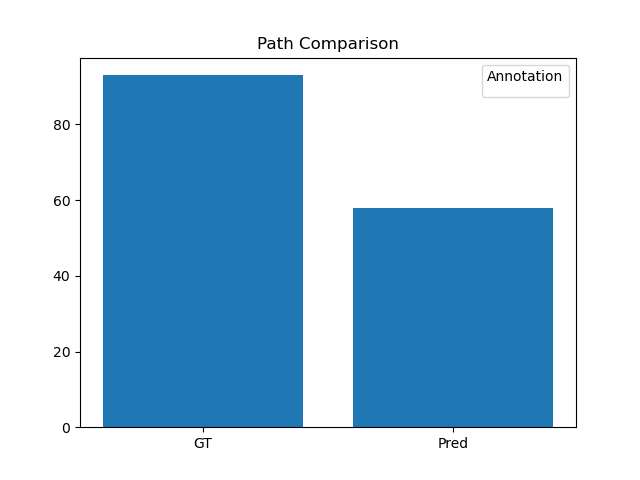
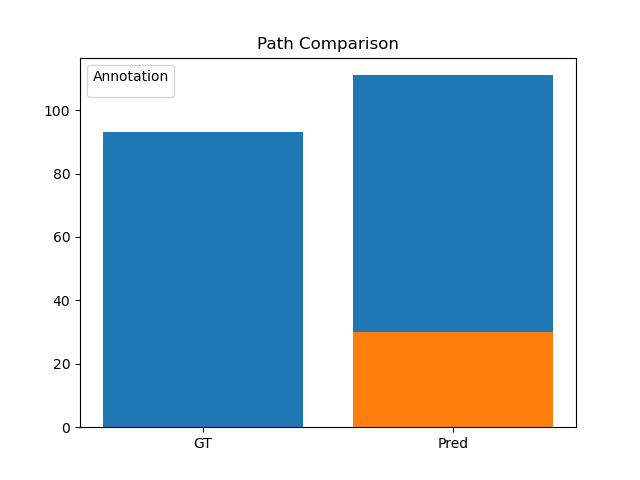
:)

diff --git a/src/main/OME_evaluator.py b/src/main/OME_evaluator.py
@@ -1,11 +1,13 @@
 import xml.etree.ElementTree as ET
-import javabridge
-import bioformats
+#import javabridge
+#import bioformats
 import numpy as np
 from zss import simple_distance, Node
 import seaborn as sns
 import matplotlib.pyplot as plt
 import pandas as pd
+
+
 # javabridge.start_vm(class_path=bioformats.JARS)
 
 
@@ -15,18 +17,20 @@ class OMEEvaluator:
     ground truth and the prediction. https://github.com/timtadh/zhang-shasha
     """
 
-    def __init__(self, path_to_raw_metadata=None,
-                 gt_path="/home/aaron/PycharmProjects/MetaGPT/raw_data/testetst_Image8_edited_.ome.xml",
-                 pred_path="/home/aaron/PycharmProjects/MetaGPT/raw_data/image8_start_point.ome.xml"):
+    def __init__(self,
+                 schema: str = None,
+                 ground_truth: str = None,
+                 predicted: list[str] = None,
+                 out_path: str = None):
         """
         :param path_to_raw_metadata: path to the raw metadata file
         """
-        self.gt_path = gt_path
-        self.pred_path = pred_path
-
-        self.prediction = self.read_ome_xml(pred_path)
-        self.ground_truth = self.read_ome_xml(gt_path)
-        self.edit_score = self.edit_distance(self.prediction, self.ground_truth)
+        self.prediction: list = predicted
+        self.ground_truth = ground_truth
+        self.out_path: str = out_path
+        self.edit_score = []
+        for p in self.prediction:
+            self.edit_score.append(self.edit_distance(p, self.ground_truth))
         self.report()
 
     def edit_distance(self, xml_a, xml_b):
@@ -41,7 +45,7 @@ class OMEEvaluator:
 
         self.pred_graph = self.get_graph(self.prediction)
         self.gt_graph = self.get_graph(self.ground_truth)
-        return simple_distance(self.pred_graph, self.gt_graph)
+        return simple_distance(self.gt_graph, self.pred_graph)
 
     def align_paths(self, paths_a, paths_b):
         """
@@ -206,9 +210,10 @@ class OMEEvaluator:
         """
         This method reads the ome tiff file.
         """
-        ome = bioformats.OMEXML()
-        print(ome)
-        return ome
+        pass
+        #ome = bioformats.OMEXML()
+        #print(ome)
+        #return ome
 
     def evaluate(self):
         """
@@ -217,6 +222,13 @@ class OMEEvaluator:
         print("Evaluation in progress...")
         self.score = self.path_difference(self.prediction, self.ground_truth)
 
+    def flatten(self, container):
+        for i in container:
+            if isinstance(i, (list, tuple, set)):
+                yield from self.flatten(i)
+            else:
+                yield i
+
     def report(self):
         """
         Write evaluation report to file.
@@ -224,43 +236,91 @@ class OMEEvaluator:
         with open(f"../../out/report_{self.gt_path.split('/')[-1]}.md", "w") as f:
             f.write("# Evaluation Report\n")
             f.write("## File content\n")
-            f.write(f"### File 1: {self.gt_path.split('/')[-1]}\n")
+            f.write(f"### File Ground Truth: \n")
             paths_gt = self.get_paths(self.ground_truth)
             f.write(f"Number of paths: {len(paths_gt)}\n")  # TODO: Somehow incorporate the ID
             f.write(f"Number of paths in structured annotations:"
                     f"{len([x for x in paths_gt if x.__contains__('StructuredAnnotations')])}\n")
-            f.write(f"### File 2: {self.pred_path.split('/')[-1]}\n")
-            paths_pred = self.get_paths(self.prediction)
-            f.write(f"Number of paths: {len(paths_pred)}\n")
-            f.write(f"Number of paths in structured annotations: "
-                    f"{len([x for x in paths_pred if x.__contains__('StructuredAnnotations')])}\n")
+            paths_pred = []
+            for j, p in enumerate(self.prediction):
+                f.write(f"### Prediction {j}\n")
+                paths_pred.append(self.get_paths(p))
+                f.write(f"Number of paths: {len(paths_pred[j])}\n")
+                f.write(f"Number of paths in structured annotations: "
+                        f"{len([x for x in paths_pred[j] if x.__contains__('StructuredAnnotations')])}\n")
             f.write("## Edit Distance\n")
-            f.write(f"Edit distance between Files: {self.edit_score}\n")
-            # create a pandas dataframe with all the paths
-            df_paths = pd.DataFrame(set(paths_gt.union(paths_pred)))
+            for j, p in enumerate(self.prediction):
+                f.write(f"Edit distance between gt and file {j}: {self.edit_score[j]}\n")
+            # create a pandas dataframe with all the paths and in which samples they occur
+            df_paths = pd.DataFrame(set(self.flatten(paths_pred + [paths_gt])))
             df_paths["GT"] = [1 if x in paths_gt else 0 for x in df_paths[0]]
-            df_paths["Pred"] = [1 if x in paths_pred else 0 for x in df_paths[0]]
-            df_paths["StructuredAnnotations"] = [1 if x.__contains__("StructuredAnnotations") else 0 for x in df_paths[0]]
+            for j, p in enumerate(self.prediction):
+                df_paths[f"Pred{j}"] = [1 if x in paths_pred[j] else 0 for x in df_paths[0]]
+                df_paths[f"StructuredAnnotations{j}"] = [1 if x.__contains__("StructuredAnnotations") else 0 for x in
+                                                         df_paths[0]]
 
             plt.bar([1, 2], [df_paths["GT"].sum(), df_paths["Pred"].sum()])
-            plt.bar([1, 2], [df_paths["GT"]
-                             [df_paths["StructuredAnnotations"] == 1].sum(), df_paths["Pred"]
-            [df_paths["StructuredAnnotations"] == 1].sum()])
+            for j, p in enumerate(self.prediction):
+                plt.bar([1, 2], [df_paths["GT"]
+                                 [df_paths[f"StructuredAnnotations{j}"] == 1].sum(), df_paths[f"Pred{j}"]
+                                 [df_paths[f"StructuredAnnotations{j}"] == 1].sum()])
 
             plt.title("Path Comparison")
-            plt.xticks([1, 2], ["GT", "Pred"])
+            plt.xticks(range(len(self.prediction) + 1), ["GT"] + [f"Pred{j}" for j in range(len(self.prediction))])
             plt.legend(title="Annotation")
 
             print(df_paths)
-            plt.savefig(f"../../out/paths_{self.gt_path.split('/')[-1]}.png")
+            plt.savefig(f"{self.out_path}.png")
             # add the plot to the report
             f.write("## Path Comparison\n")
-            f.write(f"![barplot comparing the two xml files](paths_{self.gt_path.split('/')[-1]}.png)\n")
+            f.write(f"![barplot comparing the xml files]({self.out_path}.png)\n")
+
+    def sample_df(
+            self,
+            df_paths: pd.DataFrame = None,
+    ):
+        """
+        This function creates a df with samples as Index and properties as Columns
+        TODO: Autogenerated function controll if it works as expected
+        """
+        properties = ["Method", "n_paths", "n_annotations", "Edit_distance"]
+        df = pd.DataFrame(index=df_paths.columns, columns=properties)
+        df["Method"] = "qwe"
+        df["Name"] = "qwe"
+        df["iter"] = 1
+        df["n_paths"] = df_paths.sum()
+        df["n_annotations"] = df_paths[df_paths.__contains__("StructuredAnnotations")].sum()
+        df["Edit_distance"] = [self.edit_distance(x, self.ground_truth) for x in self.prediction]
+        return df
+
+    def path_df(
+            self,
+            paths: dict[list[str]] = None  # each sample in the dictonary has a list of paths
+    ):
+        df = pd.DataFrame()
+        for sample in paths:
+            for path in paths[sample]:
+                df.at[sample, path] = 1
+        return df
+
+    def sample_std_plot(
+            self,
+            df_sample: pd.DataFrame = None,
+    ):
+        """
+        This function creates a plot which compares the inter sample standard deviation.
+        The X-axis will be the used method, whereas the Y-axis will be the standard deviation.
+        """
+        df_sample["Sample_std"] = df_sample.groupby(['Method', 'Name'])['n_paths'].std().reset_index()
+        plt.bar(df_sample["Method"], df_sample["Sample_std"])
 
 
-
-
-
+# Which plots do I want to return?
+# plot which shows deviation between runs of same sample
+# plot which shows the datatype dependent performance
+# plot which shows the method dependent performance
+# plot which shows the cost to run the tool
+# maybe show the average per sample std instead of the std of the entire dataset
 
 # javabridge.kill_vm()
 

diff --git a/src/main/predictors/predictor_curation_swarm.py b/src/main/predictors/predictor_curation_swarm.py
@@ -59,7 +59,7 @@ class CurationSwarm(PredictorTemplate):
         self.conversation["Dave Prompt"] = self.assistant_dave.instructions + "\n" + dave_prompt
 
         # dave_out = self.run_assistant(self.assistant_dave, dave_prompt)
-        with open("/raw_data/example_outputs/dave_example_response.txt", "r") as f:
+        with open("/raw_data/assistant_outputs/dave_example_response.txt", "r") as f:
             dave_out = f.read()
             self.conversation["Dave Response"] = dave_out
 
@@ -70,7 +70,7 @@ class CurationSwarm(PredictorTemplate):
         myrte_prompt = self.assistant_dave.instructions + "\n" "Here is the raw metadata: \n" + dave_out
         self.conversation["Myrte Prompt"] = self.assistant_myrte.instructions + "\n" + myrte_prompt
         # myrte_out = self.run_assistant(self.assistant_myrte, myrte_prompt)
-        with open("/raw_data/example_outputs/myrte_example_response.txt", "r") as f:
+        with open("/raw_data/assistant_outputs/myrte_example_response.txt", "r") as f:
             myrte_out = f.read()
             self.conversation["Myrte Response"] = myrte_out
         mapping_issues, target_issues = myrte_out.split("- - -")
@@ -83,7 +83,7 @@ class CurationSwarm(PredictorTemplate):
                             self.ome_starting_point)
         self.conversation["Margarete Prompt"] = self.assistant_margarete.instructions + "\n" + margarete_prompt
         # margarete_out = self.run_assistant(self.assistant_margarete, self.conversation["Margarete Prompt"])
-        with open("/raw_data/example_outputs/margarete_example_response.txt", "r") as f:
+        with open("/raw_data/assistant_outputs/margarete_example_response.txt", "r") as f:
             margarete_out = f.read()
         self.conversation["Margarete Response"] = margarete_out
 
@@ -94,7 +94,7 @@ class CurationSwarm(PredictorTemplate):
         torben_prompt = "The raw data is: \n" + target_issues + "\n\n" + "The OME XML is:\n" + margarete_out
         self.conversation["Torben Prompt"] = self.assistant_torben.instructions + "\n" + torben_prompt
         # torben_out = self.run_assistant(self.assistant_torben, torben_prompt)
-        with open("/raw_data/example_outputs/torben_example_response.txt", "r") as f:
+        with open("/raw_data/assistant_outputs/torben_example_response.txt", "r") as f:
             torben_out = f.read()
         self.conversation["Torben Response"] = torben_out
 
@@ -114,7 +114,7 @@ class CurationSwarm(PredictorTemplate):
             self.conversation["Veronika Response"] = ""
             self.export_convo()
             # veronika_out = self.run_assistant(self.assistant_veronika, veronika_prompt)
-            with open("/raw_data/example_outputs/veronika_example_response.txt", "r") as f:
+            with open("/raw_data/assistant_outputs/veronika_example_response.txt", "r") as f:
                 veronika_out = f.read()
             self.conversation["Veronika Response"] += veronika_out
 

diff --git a/src/main/main.py b/src/main/main.py
@@ -7,7 +7,7 @@ Main file for the MetaGPT project. This file will run the entire experiment.
 from src.main.predictors.predictor_curation_swarm import CurationSwarm
 from src.main.predictors.predictor_simple import SimplePredictor
 from src.main.assistants.assistant_MelancholicMarvin import MelancholicMarvin
-import OME_evaluator
+from OME_evaluator import OMEEvaluator
 
 # ----------------------------------------------------------------------------------------------------------------------
 # Constants
@@ -29,13 +29,17 @@ with open(raw_meta_path, "r") as f:
 # ----------------------------------------------------------------------------------------------------------------------
 # Simple Predictor
 # ----------------------------------------------------------------------------------------------------------------------
-melancholic_marvin = MelancholicMarvin()
-out_marvin = melancholic_marvin.assistant.say(f"Here is the raw metadata {raw_meta} for you to curate.")
-
+#melancholic_marvin = MelancholicMarvin()
+#out_marvin = melancholic_marvin.assistant.say(f"Here is the raw metadata {raw_meta} for you to curate.")
+marvin_path = ""
+with open(marvin_path, "r") as f:
+    out_marvin = f.read()
 # ----------------------------------------------------------------------------------------------------------------------
 # Structured Agent Network
 # ----------------------------------------------------------------------------------------------------------------------
-out_network = None
+network_path = "/out/assistant_outputs/veronika_example_response.txt"
+with open(network_path, "r") as f:
+    out_network = f.read()
 
 # ----------------------------------------------------------------------------------------------------------------------
 # Agent Swarm
@@ -45,12 +49,15 @@ out_swarm = None
 # ----------------------------------------------------------------------------------------------------------------------
 # Bioformats
 # ----------------------------------------------------------------------------------------------------------------------
-out_bioformats = None
+gt_path = "/home/aaron/DataspellProjects/MetaGPT/out/testetst_Image8_edited_.ome.xml"
+with open(gt_path, "r") as f:
+    out_bioformats = f.read()
 
 # ----------------------------------------------------------------------------------------------------------------------
 # Evaluation Pipeline
 # ----------------------------------------------------------------------------------------------------------------------
-ome_eval = OME_evaluator(schema=ome_xsd,
+# TODO: make evaluator work with entire datasets?
+ome_eval = OMEEvaluator(schema=ome_xsd,
                          ground_truth=out_bioformats,
                          predicted=[out_marvin, out_network, out_swarm],
                          out_path=out)

diff --git a/ReadMe.md b/ReadMe.md
@@ -1,5 +1,12 @@
 # Exploring AI for Metadata Curation
 
+## To Do
+- [x] Create a new branch for the project
+- [x] Finalize the agent swarm workflow, succh that it includes  TargetTorben and TrashTimothy.
+- [x] Finalize TargetTorben to include the Ontology mapping step
+- [x] Test on the dataset given by Luis
+- [x] Think about the evaluation steps
+- [x] 
 This GitHub repository contains the code and documentation for the project "Exploring AI for Metadata Curation".
 The goal is to design an AI system that can curate OME XML metadata for microscopy images from its raw metadata.
 

diff --git a/out/report_testetst_Image8_edited_.ome.xml.md b/out/report_testetst_Image8_edited_.ome.xml.md
@@ -3,10 +3,10 @@
 ### File 1: testetst_Image8_edited_.ome.xml
 Number of paths: 93
 Number of paths in structured annotations:0
-### File 2: image8_start_point.ome.xml
-Number of paths: 58
-Number of paths in structured annotations: 0
+### File 2: veronika_example_response.txt
+Number of paths: 111
+Number of paths in structured annotations: 30
 ## Edit Distance
-Edit distance between Files: 171.0
+Edit distance between Files: 195.0
 ## Path Comparison
 ![barplot comparing the two xml files](paths_testetst_Image8_edited_.ome.xml.png)
